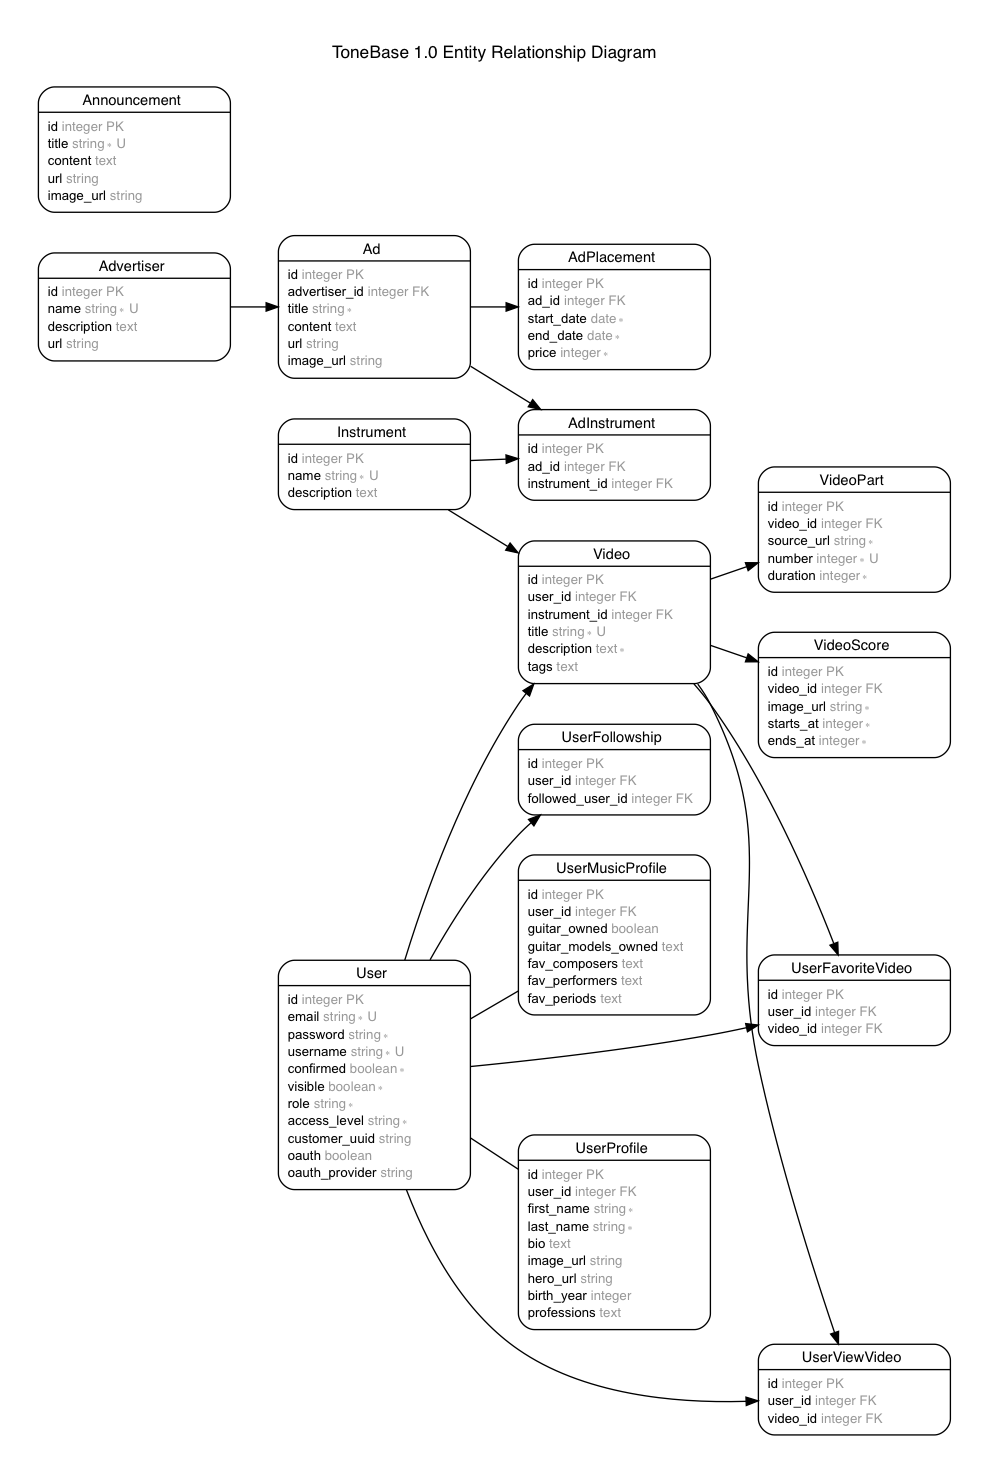
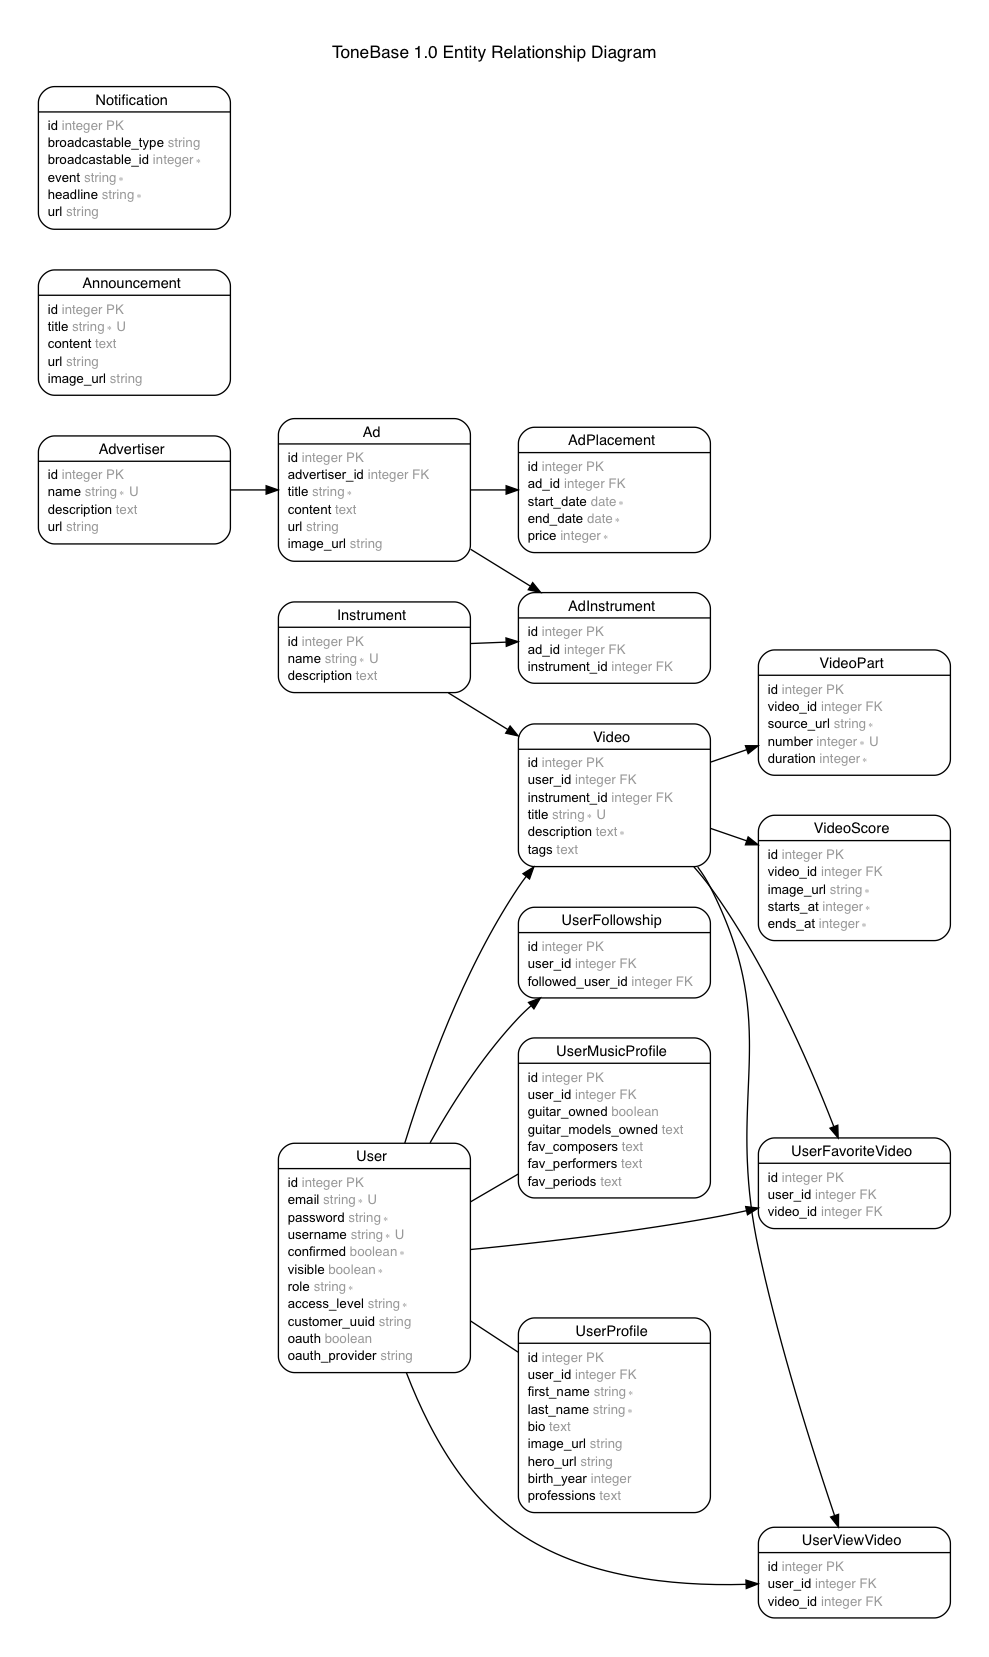
Trigger notifications on video creation

diff --git a/app/models/video.rb b/app/models/video.rb
@@ -46,13 +46,15 @@ class Video < ApplicationRecord
     Broadcast.new({
       broadcastable: self,
       event: "NewVideo",
-      title: "#{user.name} posted a new video. Watch it now!",
+      headline: "#{user.name} posted a new video. Watch it now!",
       users: user.followers
     })
   end
 end
 
 class Broadcast
+  VALID_EVENTS = ["NewVideo"]
+
   # @param [Hash] options
   # @param [Hash] options [ApplicationRecord] broadcastable The resource which triggered this broadcast. The focus of attention.
   # @param [Hash] options [String] event The type of event that triggered this broadcast.
@@ -75,13 +77,35 @@ class Broadcast
     @headline = options[:headline]
     @url = options[:url]
     @users = options[:users]
+    validate
+    notify_users
   end
 
-  def broadcastable_type
-    @broadcastable.class.name
+private
+
+  def valid_event_names
+    VALID_EVENTS # VALID_EVENTS.map{|_,v| v}.flatten
   end
 
-  def broadcastable_id
-    @broadcastable.id
+  def validate
+    raise ArgumentError.new("Broadcastable must be a valid resource") unless @broadcastable.class < ApplicationRecord
+    raise ArgumentError.new("Event must be one of: #{valid_event_names}") unless valid_event_names.include?(@event)
+    raise ArgumentError.new("Headline must be present") unless @headline
+    raise ArgumentError.new("Users must be users") unless @users.class == User::ActiveRecord_Associations_CollectionProxy
+
+    case @event
+    when "NewVideo"
+      raise ArgumentError.new("Broadcastable must match event type") unless @broadcastable.class == Video
+    else
+      raise StandardError.new("OOPS. THAT EVENT IS NOT YET REGISTERED.")
+    end
+  end
+
+  def notify_users
+    notification = Notification.create(broadcastable: @broadcastable, event: @event, headline: @headline, url: @url)
+
+    #@users.each do |user|
+    #  UserNotification.create(user: user, notification: notification, marked_read:false)
+    #end
   end
 end

diff --git a/db/schema.rb b/db/schema.rb
@@ -10,7 +10,7 @@
 #
 # It's strongly recommended that you check this file into your version control system.
 
-ActiveRecord::Schema.define(version: 20170609012852) do
+ActiveRecord::Schema.define(version: 20170609180347) do
 
   # These are extensions that must be enabled in order to support this database
   enable_extension "plpgsql"
@@ -71,6 +71,17 @@ ActiveRecord::Schema.define(version: 20170609012852) do
     t.datetime "created_at",  null: false
     t.datetime "updated_at",  null: false
     t.index ["name"], name: "index_instruments_on_name", unique: true, using: :btree
+  end
+
+  create_table "notifications", force: :cascade do |t|
+    t.string   "broadcastable_type"
+    t.integer  "broadcastable_id",   null: false
+    t.string   "event",              null: false
+    t.string   "headline",           null: false
+    t.string   "url"
+    t.datetime "created_at",         null: false
+    t.datetime "updated_at",         null: false
+    t.index ["broadcastable_type", "broadcastable_id"], name: "index_notifications_on_broadcastable_type_and_broadcastable_id", using: :btree
   end
 
   create_table "user_favorite_videos", force: :cascade do |t|

diff --git a/spec/models/video_spec.rb b/spec/models/video_spec.rb
@@ -32,16 +32,17 @@ RSpec.describe Video, type: :model do
   describe "call-backs" do
     describe "after_create " do
       describe "#broadcast_new_video_event_to_artist_followers" do
+        let!(:nonfollower){ create(:user) }
         let(:artist){ create(:artist, :with_followers)}
         let(:video){ create(:video, user: artist)}
 
         it "should create a new notification" do
-          expect{video}.to change{Notification.count}.by(1)
+          expect{ video }.to change{ Notification.count }.by(1)
         end
 
-        it "should notify all the artist's followers" do
-          expect{video}.to change{UserNotification.count}.by(artist.followers.count)
-        end
+        #it "should notify all the artist's followers" do
+        #  expect{ video }.to change{ UserNotification.count }.by(artist.followers.count)
+        #end
       end
     end
   end

diff --git a/spec/models/user_profile_spec.rb b/spec/models/user_profile_spec.rb
@@ -21,4 +21,14 @@ RSpec.describe UserProfile, type: :model do
       it { should validate_uniqueness_of(:user) }
     end
   end
+
+  describe "instance methods" do
+    describe "#name" do
+      let(:profile){ create(:user_profile, first_name: "First", last_name: "Last") }
+
+      it "should concatenate first and last names with a space in the middle" do
+        expect(profile.name).to eql("First Last")
+      end
+    end
+  end
 end

diff --git a/app/models/user.rb b/app/models/user.rb
@@ -69,6 +69,10 @@ class User < ApplicationRecord
     profile.try(:image_url) || "https://my-bucket.s3.amazonaws.com/my-dir/default-twitter-egg.png"
   end
 
+  def name
+    profile.try(:name) || "Un-named User"
+  end
+
   # @deprecated converted to a scope so it can be eager-loaded.
   # Should correspond with the following query:
   #

diff --git a/db/migrate/20170609180347_create_notifications.rb b/db/migrate/20170609180347_create_notifications.rb
@@ -1,0 +1,12 @@
+class CreateNotifications < ActiveRecord::Migration[5.0]
+  def change
+    create_table :notifications do |t|
+      t.references :broadcastable, polymorphic: true, null: false
+      t.string :event, null: false
+      t.string :headline, null: false
+      t.string :url
+
+      t.timestamps
+    end
+  end
+end

diff --git a/app/models/user_profile.rb b/app/models/user_profile.rb
@@ -9,4 +9,8 @@ class UserProfile < ApplicationRecord
   validates :birth_year, {allow_nil: true, numericality: {only_integer: true}}
 
   serialize(:professions, Array)
+
+  def name
+    "#{first_name} #{last_name}"
+  end
 end

diff --git a/spec/factories/notifications.rb b/spec/factories/notifications.rb
@@ -1,0 +1,8 @@
+FactoryGirl.define do
+  factory :notification do
+    broadcastable nil
+    event "MyString"
+    headline "MyString"
+    url "MyString"
+  end
+end

diff --git a/spec/models/notification_spec.rb b/spec/models/notification_spec.rb
@@ -1,0 +1,5 @@
+require 'rails_helper'
+
+RSpec.describe Notification, type: :model do
+  pending "add some examples to (or delete) #{__FILE__}"
+end

diff --git a/app/models/notification.rb b/app/models/notification.rb
@@ -1,0 +1,3 @@
+class Notification < ApplicationRecord
+  belongs_to :broadcastable, polymorphic: true
+end
